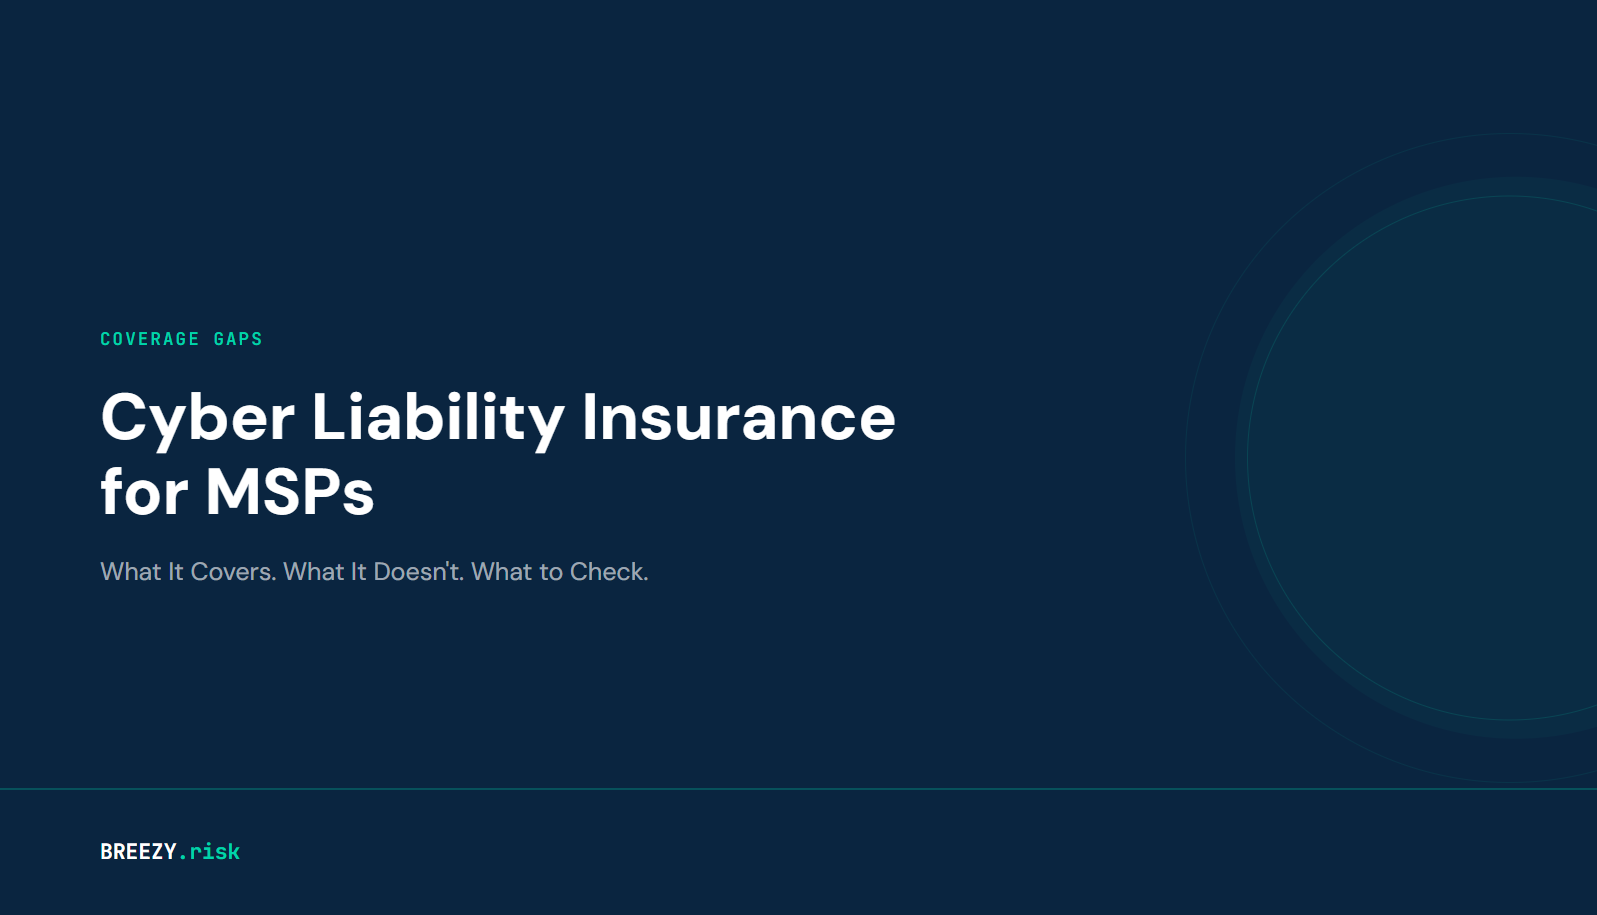
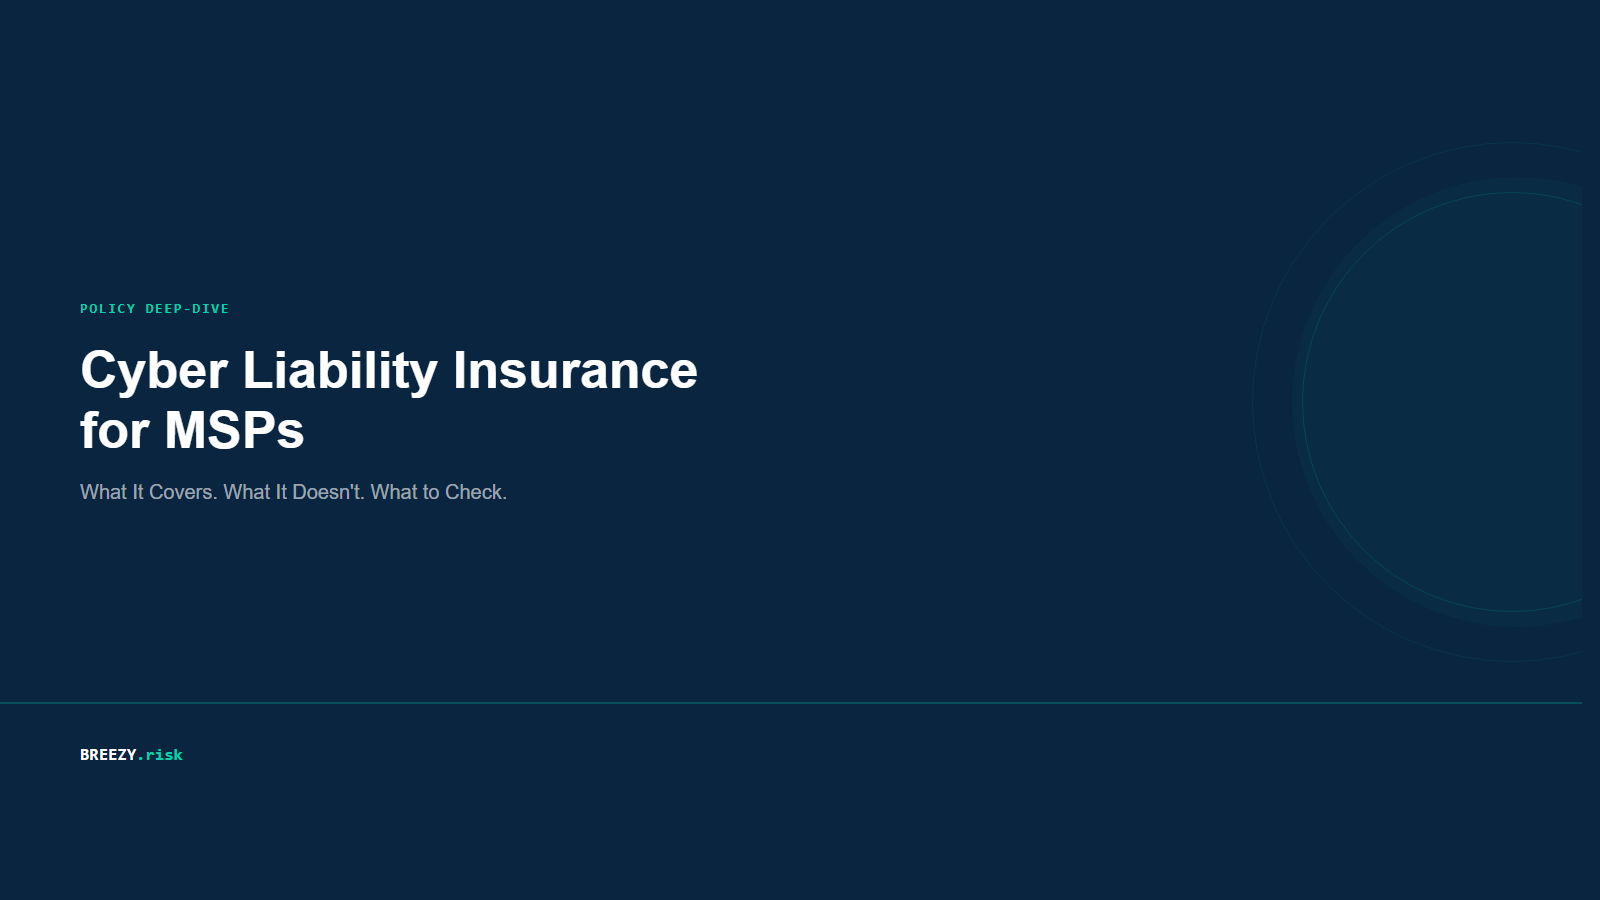
Add category-colored accent bars to insights grid, recategorize cyber liability post
Insights page: replaced identical blog header thumbnails with thin
category-colored gradient bars (teal for Coverage Gaps, blue for Policy
Deep-Dive, amber for Case Study). Cards now use a body wrapper for
proper padding with the accent bar flush at the top.

Recategorized "Cyber Liability Insurance for MSPs" from Coverage Gaps
to Policy Deep-Dive to match its content (policy explainer, not a
named gap from the 8-gap framework). Updated OG header image and
HTML template to reflect the new category.

Created custom header image for "Your MSP Grew" post, replacing the
generic default OG image.

diff --git a/insights.html b/insights.html
@@ -11,8 +11,13 @@ permalink: /insights/
 .insights-header h1 { font-size: 48px; font-weight: 800; color: var(--primary); margin: 0 0 14px; letter-spacing: -0.02em; }
 .insights-header p { font-size: 18px; color: var(--text-secondary); margin: 0; line-height: 1.7; }
 .blog-grid { display: grid; grid-template-columns: repeat(auto-fill, minmax(340px, 1fr)); gap: 28px; max-width: 1100px; margin: 0 auto; }
-.post-card { background: #fff; border: 2px solid var(--border); border-radius: 12px; padding: 32px; transition: all 0.25s; display: flex; flex-direction: column; }
+.post-card { background: #fff; border: 2px solid var(--border); border-radius: 12px; padding: 0; transition: all 0.25s; display: flex; flex-direction: column; overflow: hidden; }
 .post-card:hover { border-color: var(--accent); box-shadow: 0 10px 24px rgba(0, 212, 170, 0.12); transform: translateY(-3px); }
+.post-card-accent { height: 6px; }
+.post-card-accent--coverage-gaps { background: linear-gradient(90deg, #00D4AA, #0A2540); }
+.post-card-accent--policy-deep-dive { background: linear-gradient(90deg, #3B82F6, #0A2540); }
+.post-card-accent--case-study { background: linear-gradient(90deg, #F59E0B, #0A2540); }
+.post-card-body { padding: 24px 32px 32px; display: flex; flex-direction: column; flex: 1; }
 .post-card .post-category { font-family: var(--font-mono); font-size: 12px; font-weight: 700; text-transform: uppercase; letter-spacing: 0.05em; color: var(--accent); margin-bottom: 12px; }
 .post-card h2 { font-size: 22px; font-weight: 800; color: var(--primary); margin: 0 0 12px; line-height: 1.3; letter-spacing: -0.01em; }
 .post-card h2 a { color: inherit; text-decoration: none; }
@@ -41,20 +46,25 @@ permalink: /insights/
             {% for post in sorted_posts %}
             <div class="post-card">
                 {% if post.category %}
-                <div class="post-category">{{ post.category }}</div>
+                <div class="post-card-accent post-card-accent--{{ post.category | slugify }}"></div>
                 {% endif %}
-                <h2><a href="{{ post.url | relative_url }}">{{ post.title }}</a></h2>
-                {% if post.excerpt %}
-                <p class="post-excerpt">{{ post.excerpt | strip_html | truncate: 160 }}</p>
-                {% endif %}
-                <div class="post-meta">
-                    <span>{{ post.date | date: "%B %-d, %Y" }}</span>
-                    {% if post.read_time %}
-                    <span class="divider">&bull;</span>
-                    <span>{{ post.read_time }}</span>
+                <div class="post-card-body">
+                    {% if post.category %}
+                    <div class="post-category">{{ post.category }}</div>
                     {% endif %}
+                    <h2><a href="{{ post.url | relative_url }}">{{ post.title }}</a></h2>
+                    {% if post.excerpt %}
+                    <p class="post-excerpt">{{ post.excerpt | strip_html | truncate: 160 }}</p>
+                    {% endif %}
+                    <div class="post-meta">
+                        <span>{{ post.date | date: "%B %-d, %Y" }}</span>
+                        {% if post.read_time %}
+                        <span class="divider">&bull;</span>
+                        <span>{{ post.read_time }}</span>
+                        {% endif %}
+                    </div>
+                    <a href="{{ post.url | relative_url }}" class="read-more">Read article &rarr;</a>
                 </div>
-                <a href="{{ post.url | relative_url }}" class="read-more">Read article &rarr;</a>
             </div>
             {% endfor %}
         </div>

diff --git a/assets/images/blog-header-msp-grew.html b/assets/images/blog-header-msp-grew.html
@@ -2,7 +2,7 @@
 <html>
 <head>
     <meta charset="UTF-8">
-    <title>Blog Header - Cyber Liability MSP</title>
+    <title>Blog Header - Your MSP Grew</title>
     <link rel="preconnect" href="https://fonts.googleapis.com">
     <link rel="preconnect" href="https://fonts.gstatic.com" crossorigin>
     <link href="https://fonts.googleapis.com/css2?family=JetBrains+Mono:wght@400;600;700&family=DM+Sans:wght@400;500;700&display=swap" rel="stylesheet">
@@ -24,7 +24,6 @@
             overflow: hidden;
         }
 
-        /* Teal circle - right side, partially cropped */
         .circle {
             position: absolute;
             width: 450px;
@@ -61,7 +60,6 @@
             transform: translateY(-50%);
         }
 
-        /* Thin horizontal accent line */
         .accent-line {
             position: absolute;
             bottom: 100px;
@@ -72,7 +70,6 @@
             opacity: 0.25;
         }
 
-        /* Content container */
         .content {
             position: absolute;
             top: 0;
@@ -85,7 +82,6 @@
             justify-content: center;
         }
 
-        /* Category label */
         .category {
             font-family: 'JetBrains Mono', monospace;
             font-size: 14px;
@@ -96,7 +92,6 @@
             margin-bottom: 24px;
         }
 
-        /* Main title */
         .title {
             font-family: 'DM Sans', sans-serif;
             font-size: 52px;
@@ -107,7 +102,6 @@
             max-width: 720px;
         }
 
-        /* Subtitle */
         .subtitle {
             font-family: 'DM Sans', sans-serif;
             font-size: 20px;
@@ -116,7 +110,6 @@
             max-width: 600px;
         }
 
-        /* Logo lockup */
         .logo {
             position: absolute;
             bottom: 40px;
@@ -135,23 +128,18 @@
 <body>
 
 <div class="header-image">
-
-    <!-- Background elements -->
     <div class="circle"></div>
     <div class="circle-ring"></div>
     <div class="circle-ring-outer"></div>
     <div class="accent-line"></div>
 
-    <!-- Text content -->
     <div class="content">
-        <div class="category">Policy Deep-Dive</div>
-        <div class="title">Cyber Liability Insurance<br>for MSPs</div>
-        <div class="subtitle">What It Covers. What It Doesn't. What to Check.</div>
+        <div class="category">Coverage Gaps</div>
+        <div class="title">Your MSP Grew.<br>Did Your Insurance?</div>
+        <div class="subtitle">New services, acquisitions, and enterprise contracts change your risk. Your policy should keep up.</div>
     </div>
 
-    <!-- Logo -->
     <div class="logo">BREEZY<span class="teal">.risk</span></div>
-
 </div>
 
 </body>

diff --git a/_posts/2026-02-08-cyber-liability-insurance-for-msps.md b/_posts/2026-02-08-cyber-liability-insurance-for-msps.md
@@ -4,7 +4,7 @@ title: "Cyber Liability Insurance for MSPs: What It Covers, What It Doesn't, and
 description: "Most MSPs have a cyber liability policy. Few understand what it actually covers. Here's what cyber insurance does, where it stops, and 5 things to check right now."
 date: 2026-02-08
 author: Joerg Proeve
-category: Coverage Gaps
+category: Policy Deep-Dive
 read_time: "8 min read"
 image: /assets/images/Blog-Cyber-Liability-MSP.png
 permalink: /insights/cyber-liability-insurance-for-msps/

diff --git a/_posts/2026-02-15-your-msp-grew-did-your-insurance.md b/_posts/2026-02-15-your-msp-grew-did-your-insurance.md
@@ -6,7 +6,7 @@ date: 2026-02-15
 author: Joerg Proeve
 category: Coverage Gaps
 read_time: "7 min read"
-image: /assets/images/breezy-og-default.png
+image: /assets/images/Blog-MSP-Grew.png
 permalink: /insights/your-msp-grew-did-your-insurance/
 redirect_from:
   - /msp-insurance-audit
